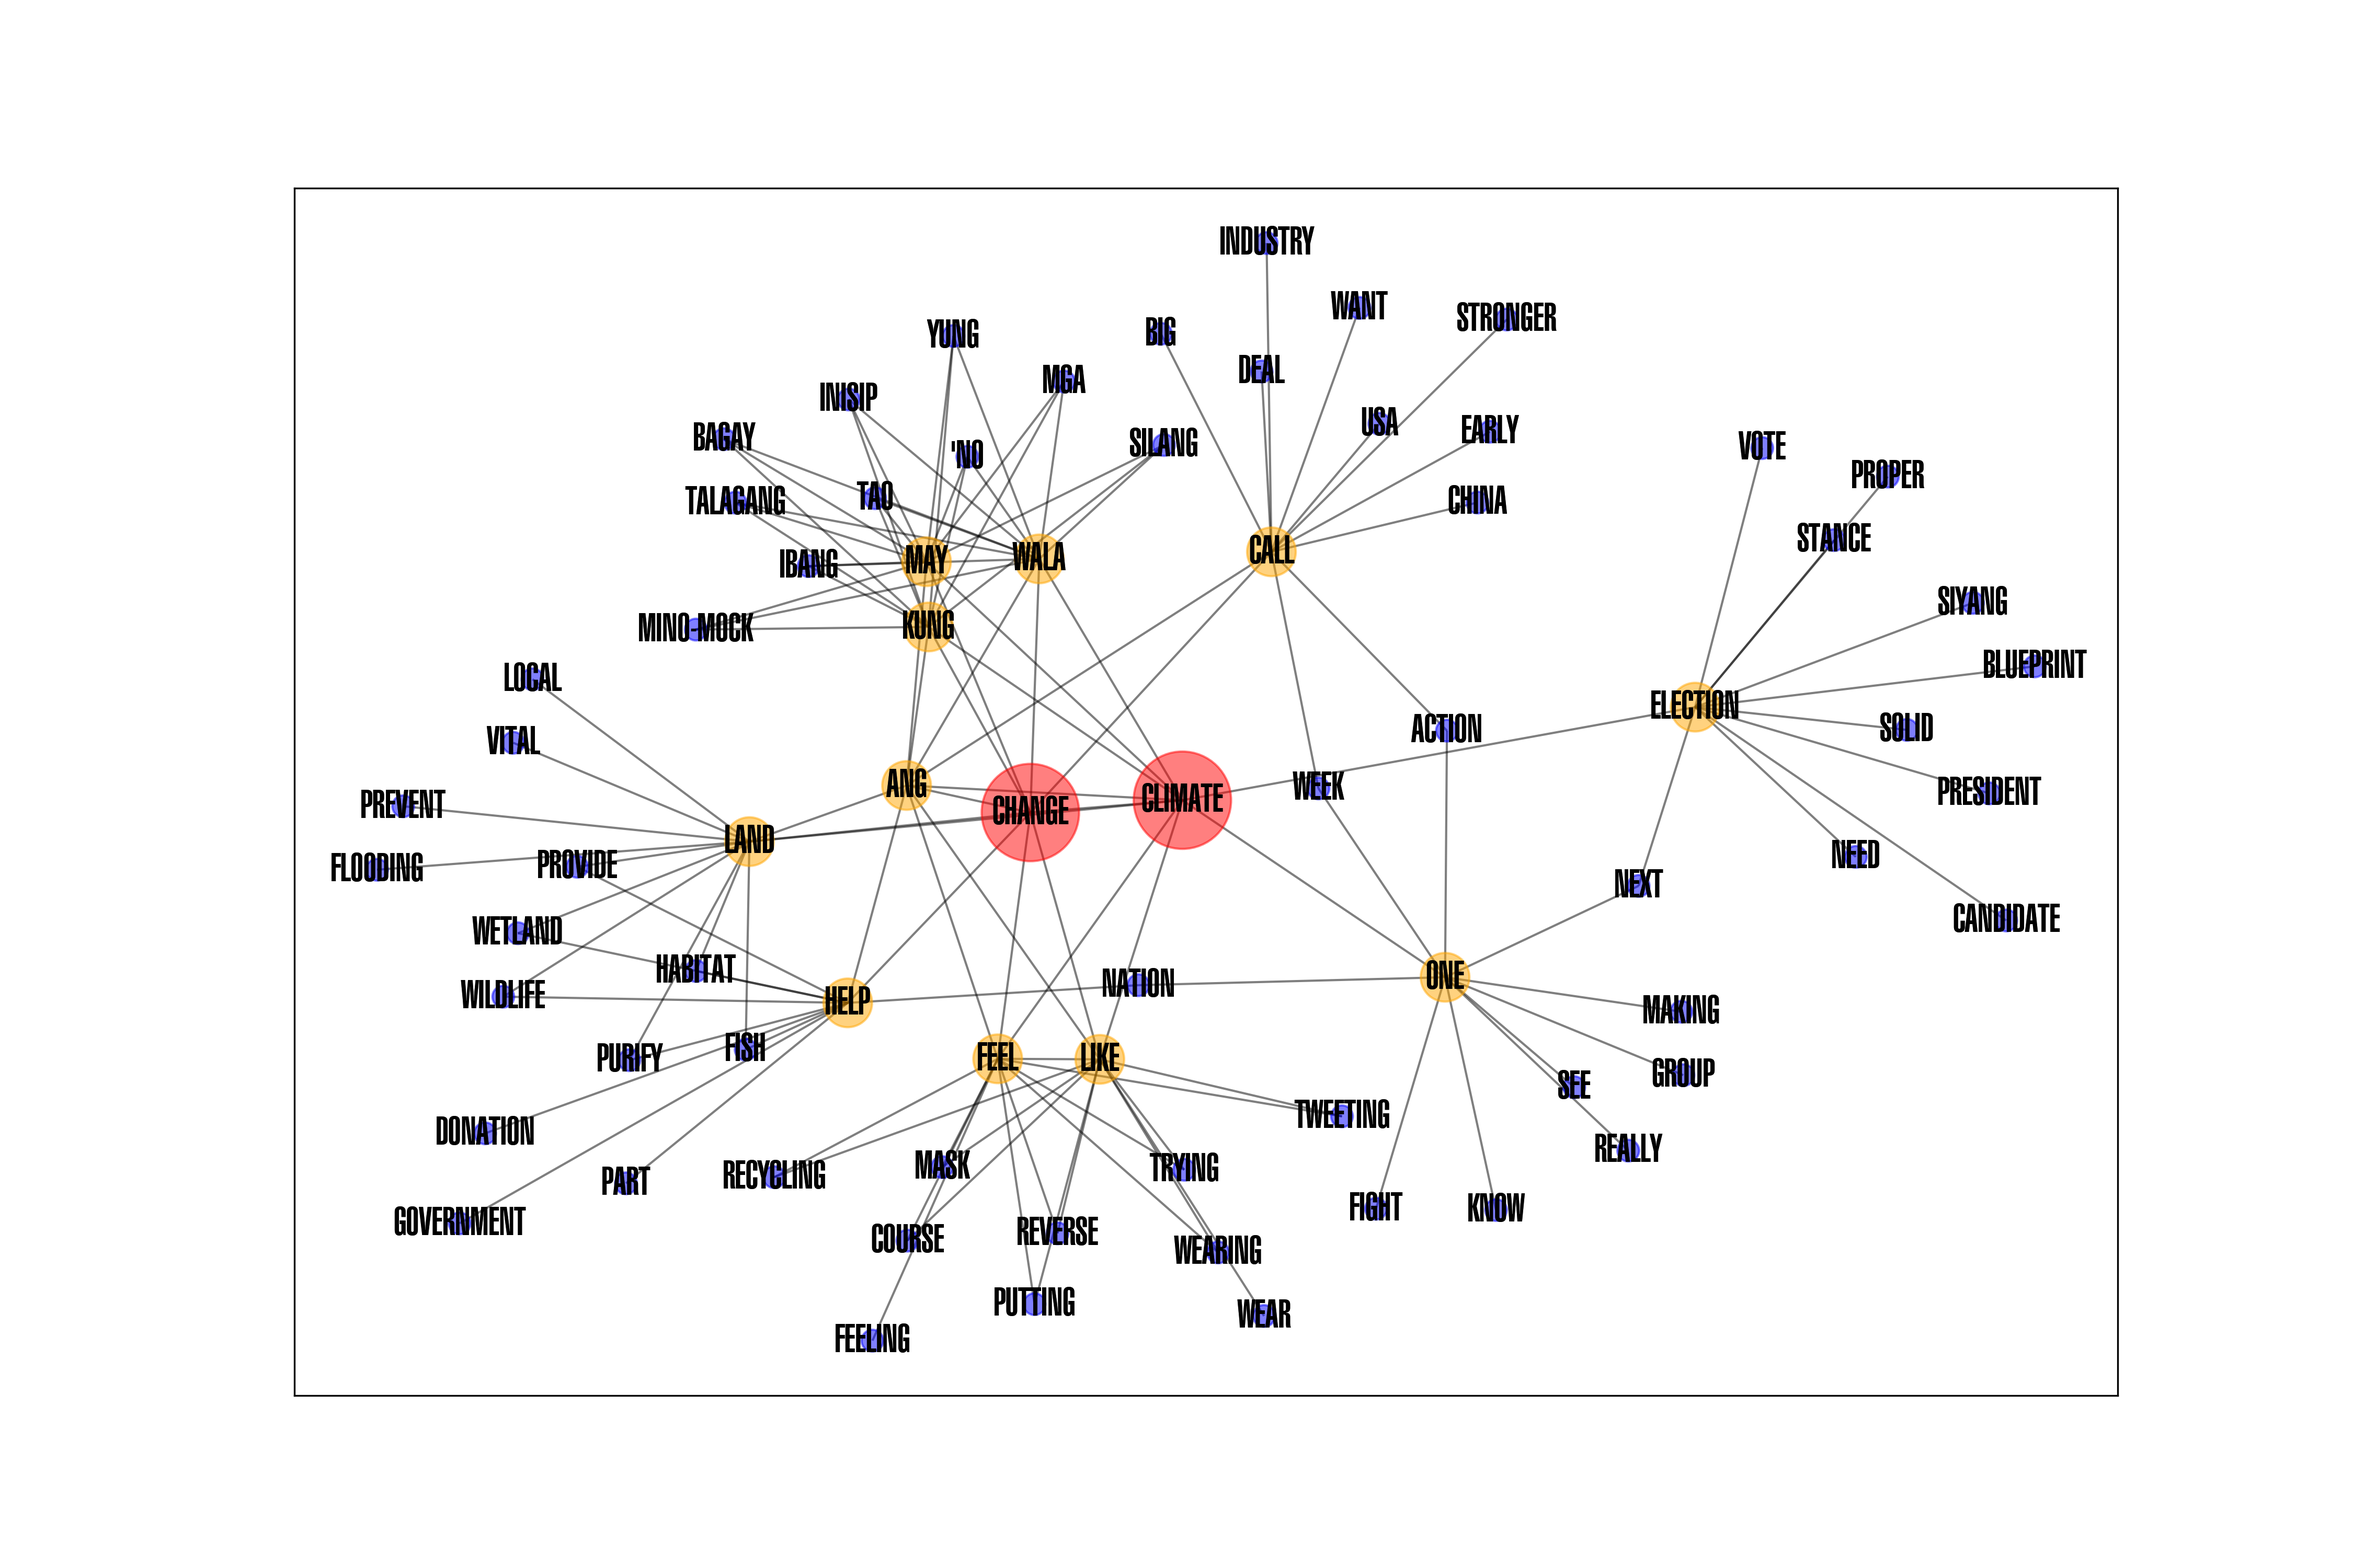
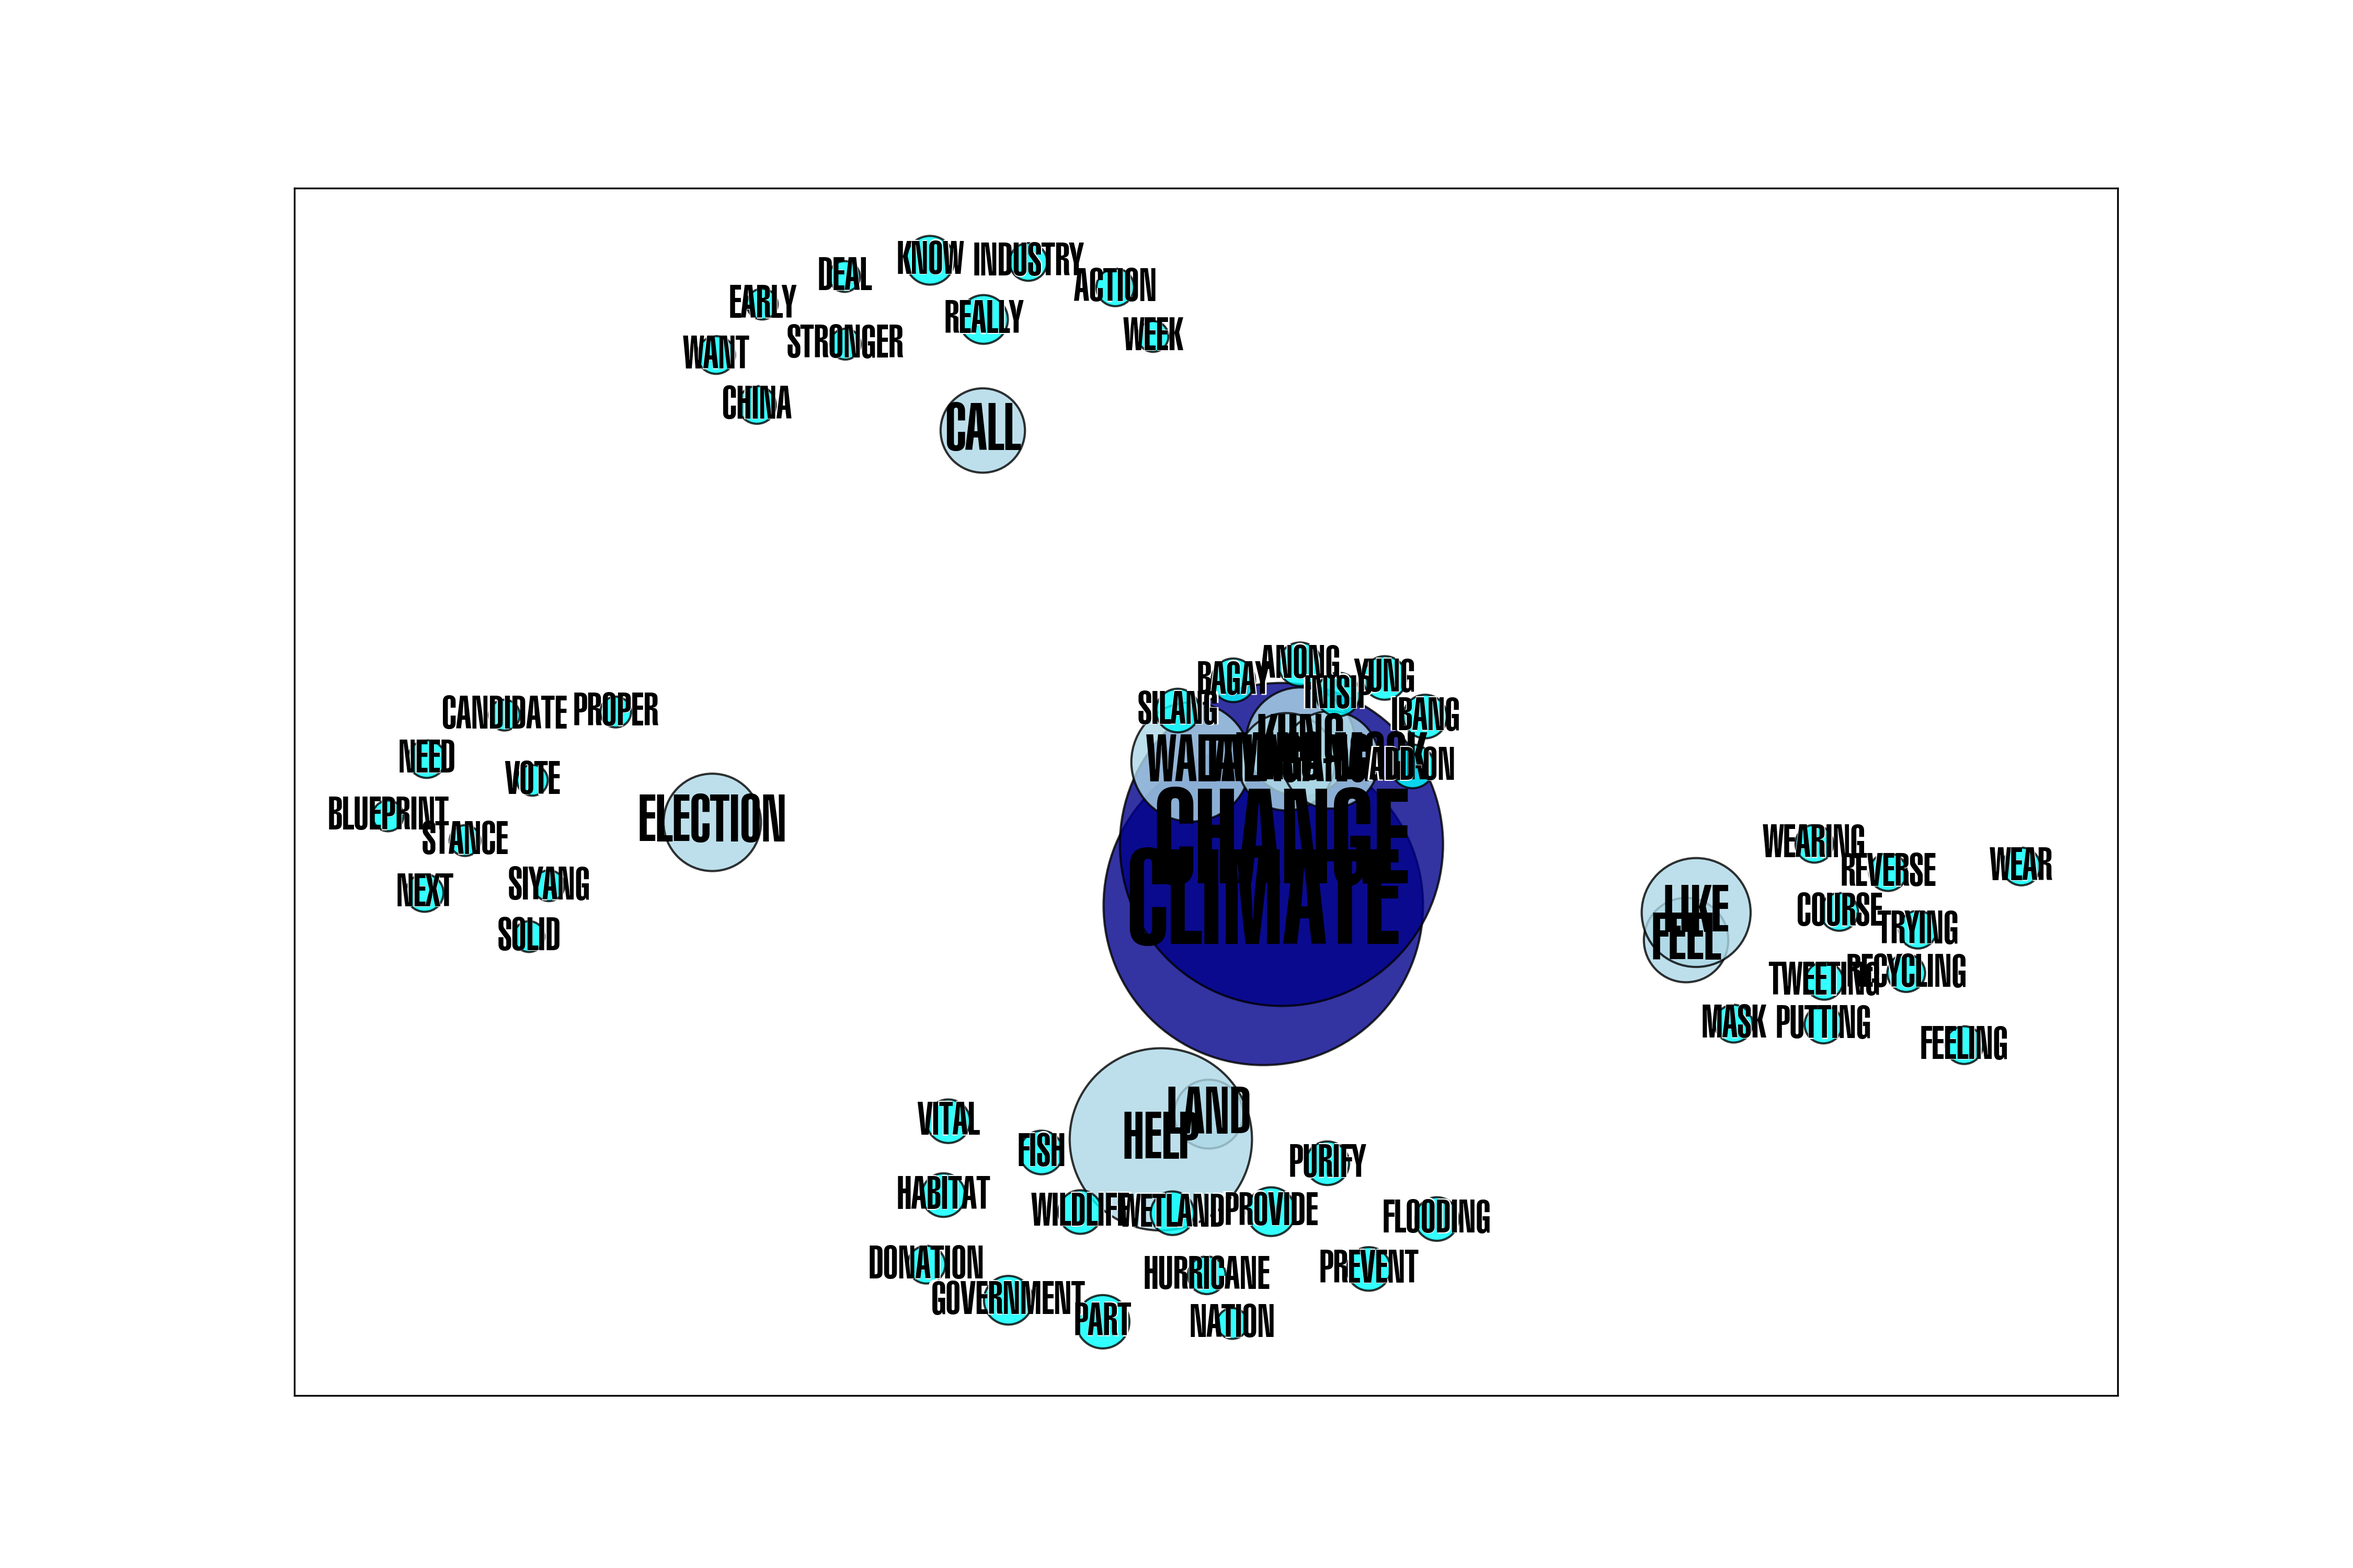
Updated label sizes and colours based on level

diff --git a/James_IdeaTesting/TwitterVisualiser/coocurrance_plot.py b/James_IdeaTesting/TwitterVisualiser/coocurrance_plot.py
@@ -29,6 +29,8 @@ def dice_significance(cooc_array, word, word_list):
 # Define project path
 PROJ_PATH = "/Users/jamesashford/Documents/Projects/Hackathons/Oxford Hack 2020/OxHack-2020/James_IdeaTesting/TwitterVisualiser/"
 NUM_OF_COOCS = 10
+SEARCH_TERM = 'Climate Change'
+ALL_SEARCH_TERMS = TextBlob(SEARCH_TERM).words
 
 # Sort out fonts
 font_files = font_manager.findSystemFonts(fontpaths=f"{PROJ_PATH}rsc")
@@ -36,8 +38,7 @@ font_list = font_manager.createFontList(font_files)
 font_manager.fontManager.ttflist.extend(font_list)
 
 # Read in tweets
-search_term = 'Climate Change'
-tweet_file = pd.read_csv(f"{PROJ_PATH}rsc/{search_term}_tweets.csv")
+tweet_file = pd.read_csv(f"{PROJ_PATH}rsc/{SEARCH_TERM}_tweets.csv")
 tweets = tweet_file["Tweet"].dropna().values
 
 # Extract and clean words
@@ -45,7 +46,7 @@ all_words = TextBlob(" ".join(tweets).upper()).words.singularize().lemmatize()
 # Get stop-words
 stop_words = list(set(stopwords.words('english'))) + ['thi']
 # Remove Stop and Short Words
-words = [w for w in all_words if len(w) > 2 and w.lower() not in stop_words]
+words = [w for w in all_words if len(w) > 3 and w.lower() not in stop_words]
 
 # Remove words that only occur once
 counts = dict(Counter(words))
@@ -57,14 +58,15 @@ dtm = np.array([[1 if (tweet.upper().count(word) > 0) else 0 for word in key_wor
 cooc = np.dot(dtm.T, dtm)
 
 graph_data = []
-tier2_names = []
-for term in TextBlob(search_term).words:
+layer1_names = []
+layer2_names = []
+for term in ALL_SEARCH_TERMS:
     # Statistical significance of search_term
     term_dice_stats = dice_significance(cooc, term, key_words)
     term_dice_stats = dict_value_sort(term_dice_stats)
     # Get NUM_OF_COOCS most similar words
     most_similar = list(term_dice_stats.keys())[0:NUM_OF_COOCS]
-    tier2_names += most_similar
+    layer1_names += most_similar
     # Create a structure to hold the node links
     graph_data += [{"from":term.upper(), "to":set_name, "stat":term_dice_stats[set_name]} for set_name in most_similar]
     # Iterate over each of the chosen coocs, and find their closest
@@ -74,6 +76,7 @@ for term in TextBlob(search_term).words:
         word_dice_stats = dict_value_sort(word_dice_stats)
         # Choose top nearby matches
         top_neighbours = list(word_dice_stats.keys())[0:10]
+        layer2_names += top_neighbours
         new_graph_data = [{"from":word.upper(), "to":set_name, "stat":word_dice_stats[set_name]} for set_name in top_neighbours]
         # Add to existing graph data
         graph_data += new_graph_data
@@ -83,30 +86,45 @@ gd = pd.DataFrame.from_dict(graph_data)
 # Create co-occurance graph
 # G = nx.from_numpy_matrix(cooc)
 G = nx.from_pandas_edgelist(gd, "from", "to", "stat")
-pos = nx.nx_agraph.graphviz_layout(G, prog='fdp')
 
 # Generate colours
 colours, sizes = [], []
+l0, l1, l2 = {}, {}, {}
 for node in G:
-    if node in TextBlob(search_term).words.upper():
-        col = 'red'
-        size = 2000
-    elif node in tier2_names:
-        col = 'orange'
-        size = 500
+    if node in ALL_SEARCH_TERMS.upper():
+        col = 'darkblue' #'red'
+        size = counts[node]*1000 #5000
+        l0[node] = node
+    elif node in layer1_names:
+        col = 'lightblue' #'orange'
+        size = counts[node]*1000 #2500
+        l1[node] = node
     else:
-        col = 'blue'
-        size = 100
+        col = 'cyan' #'blue'
+        size = counts[node]*100 #1000
+        l2[node] = node
     colours.append(col)
     sizes.append(size)
 
 # Visualisation
 fig = plt.figure(figsize=(15, 10))
-nx.draw_networkx(G, pos, with_labels=True, alpha=0.5, node_color=colours, node_size = sizes, font_family="Swiss911 UCm BT", font_size=18)
-nx.draw_networkx_labels(G, pos, font_family="Swiss911 UCm BT", font_size=18)
+pos = nx.spring_layout(G)
+if len(ALL_SEARCH_TERMS) == 1:
+    pos = nx.nx_agraph.graphviz_layout(G, prog='twopi')
+# Draw edges
+edges = nx.draw_networkx_edges(G, pos, alpha=1, width=2, edge_color='white') #width=gd["stat"].values*10)
+# Draw nodes, once white for background then again with colour+alpha
+nodes = nx.draw_networkx_nodes(G, pos, alpha=1, node_color='white', node_size=sizes)
+nodes = nx.draw_networkx_nodes(G, pos, alpha=0.8, node_color=colours, node_size=sizes)
+nodes.set_edgecolor('black')
+# Draw labels for each layer, with proportional sizes
+labels0 = nx.draw_networkx_labels(G, pos, labels=l0, font_family="Swiss911 UCm BT", font_size=60)
+labels1 = nx.draw_networkx_labels(G, pos, labels=l1, font_family="Swiss911 UCm BT", font_size=30)
+labels2 = nx.draw_networkx_labels(G, pos, labels=l2, font_family="Swiss911 UCm BT", font_size=22, font_color="white")
+labels2 = nx.draw_networkx_labels(G, pos, labels=l2, font_family="Swiss911 UCm BT", font_size=21, font_color="black")
 
 # Save
-save_name = f"{PROJ_PATH}output/{search_term}_coocgraph.png"
+save_name = f"{PROJ_PATH}output/{SEARCH_TERM}_coocgraph.png"
 plt.savefig(save_name, dpi=300, transparent=True)
 
 # Show
